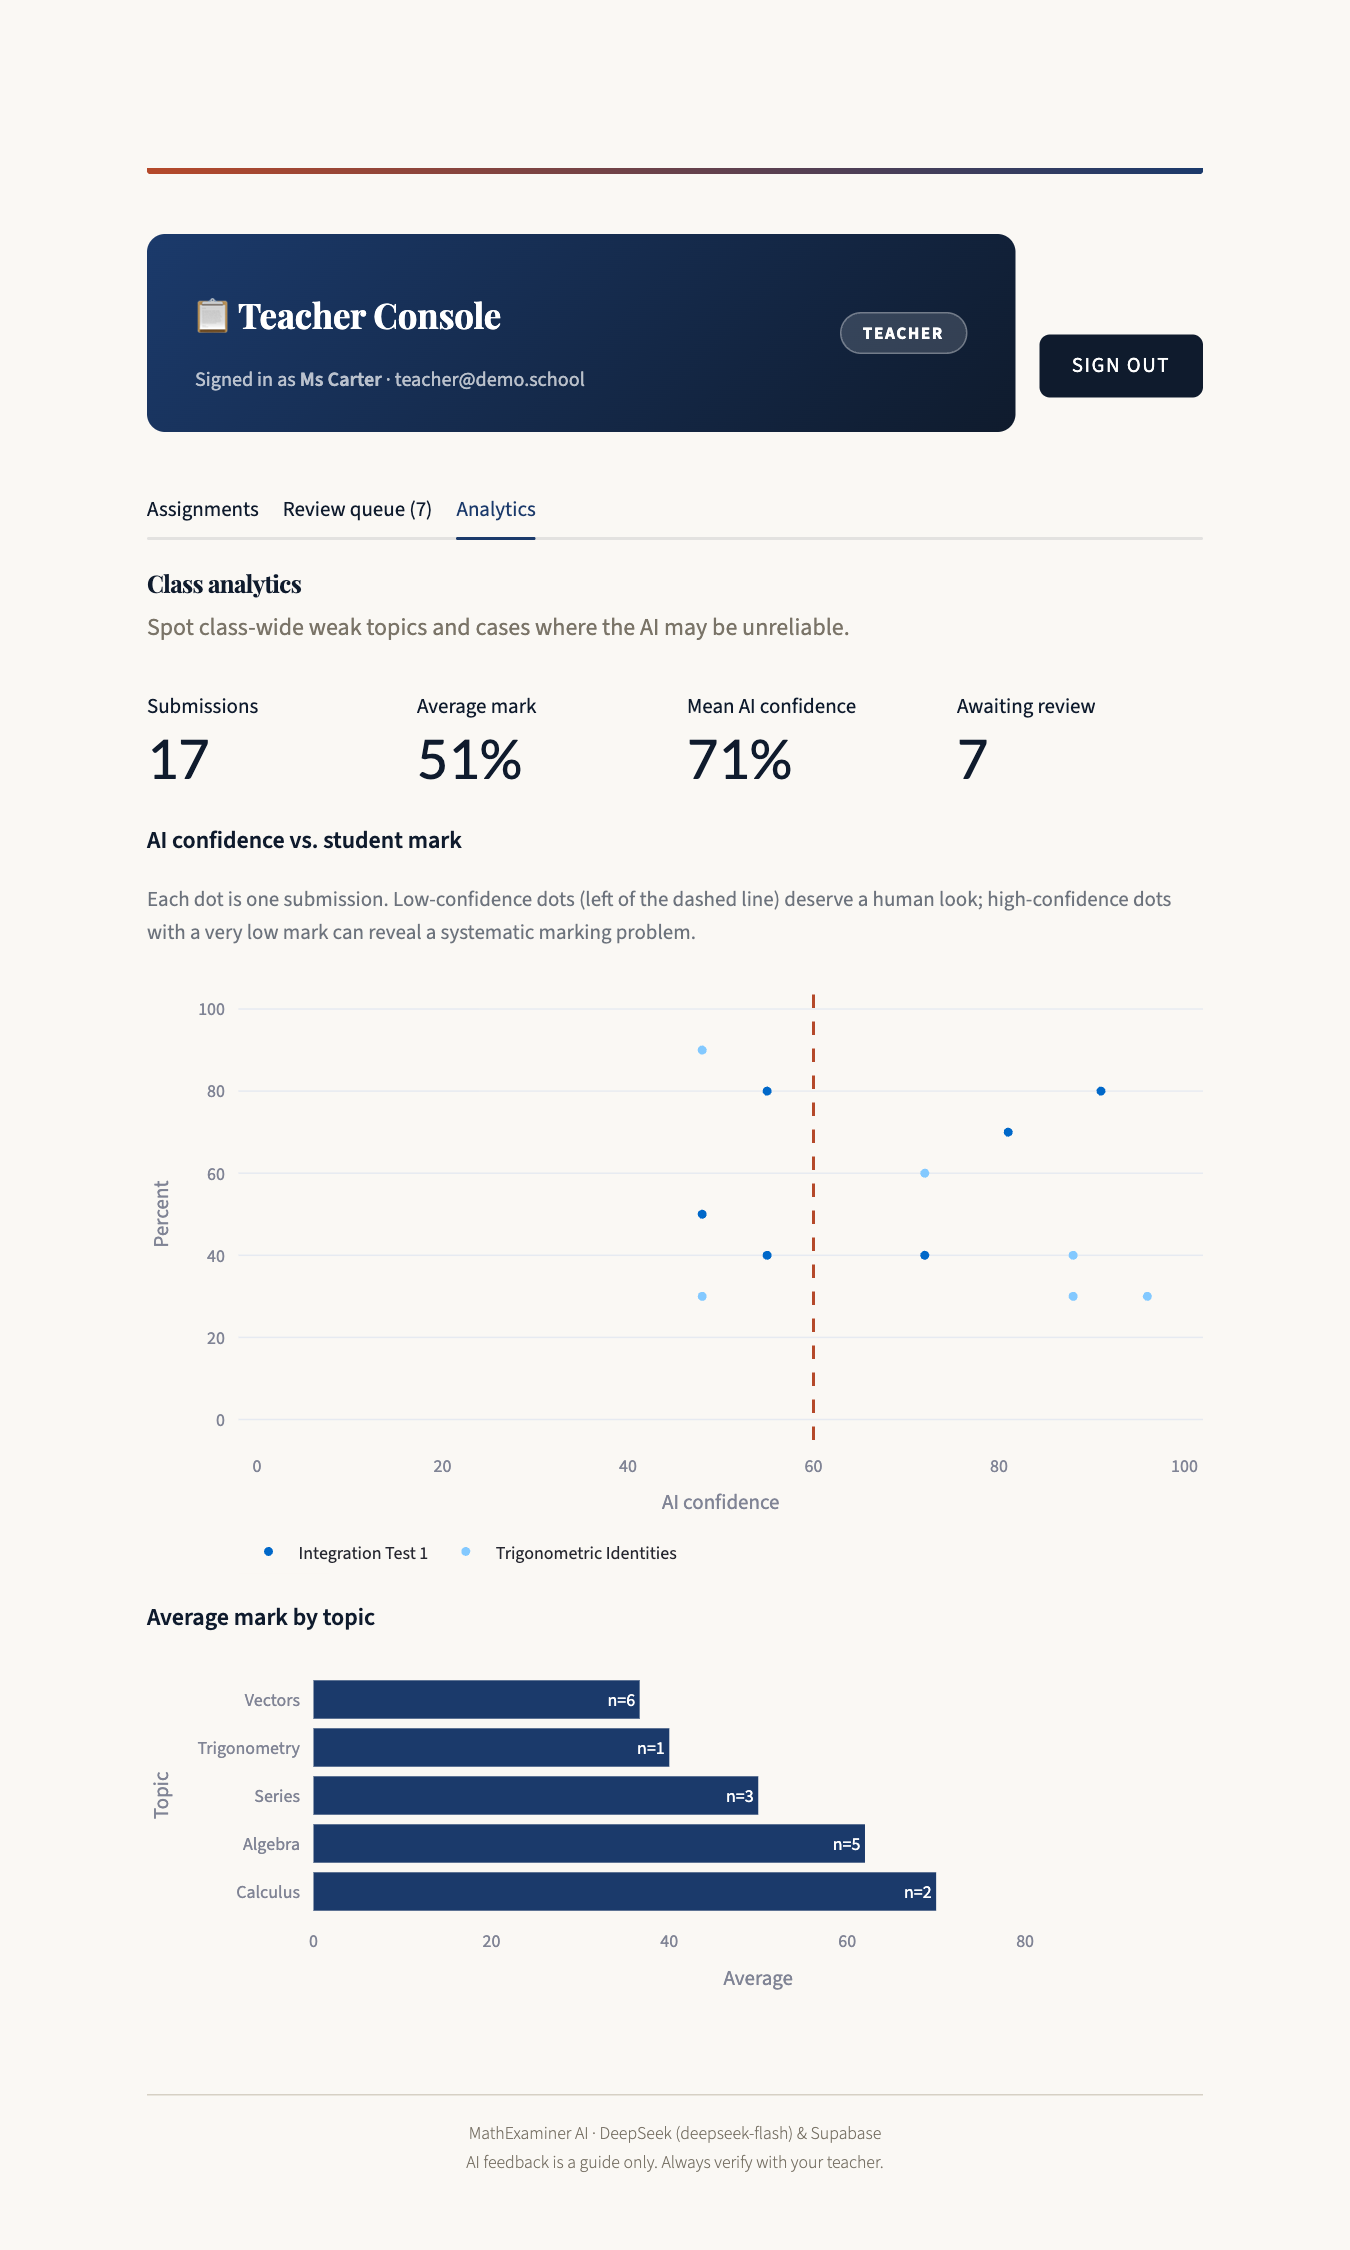
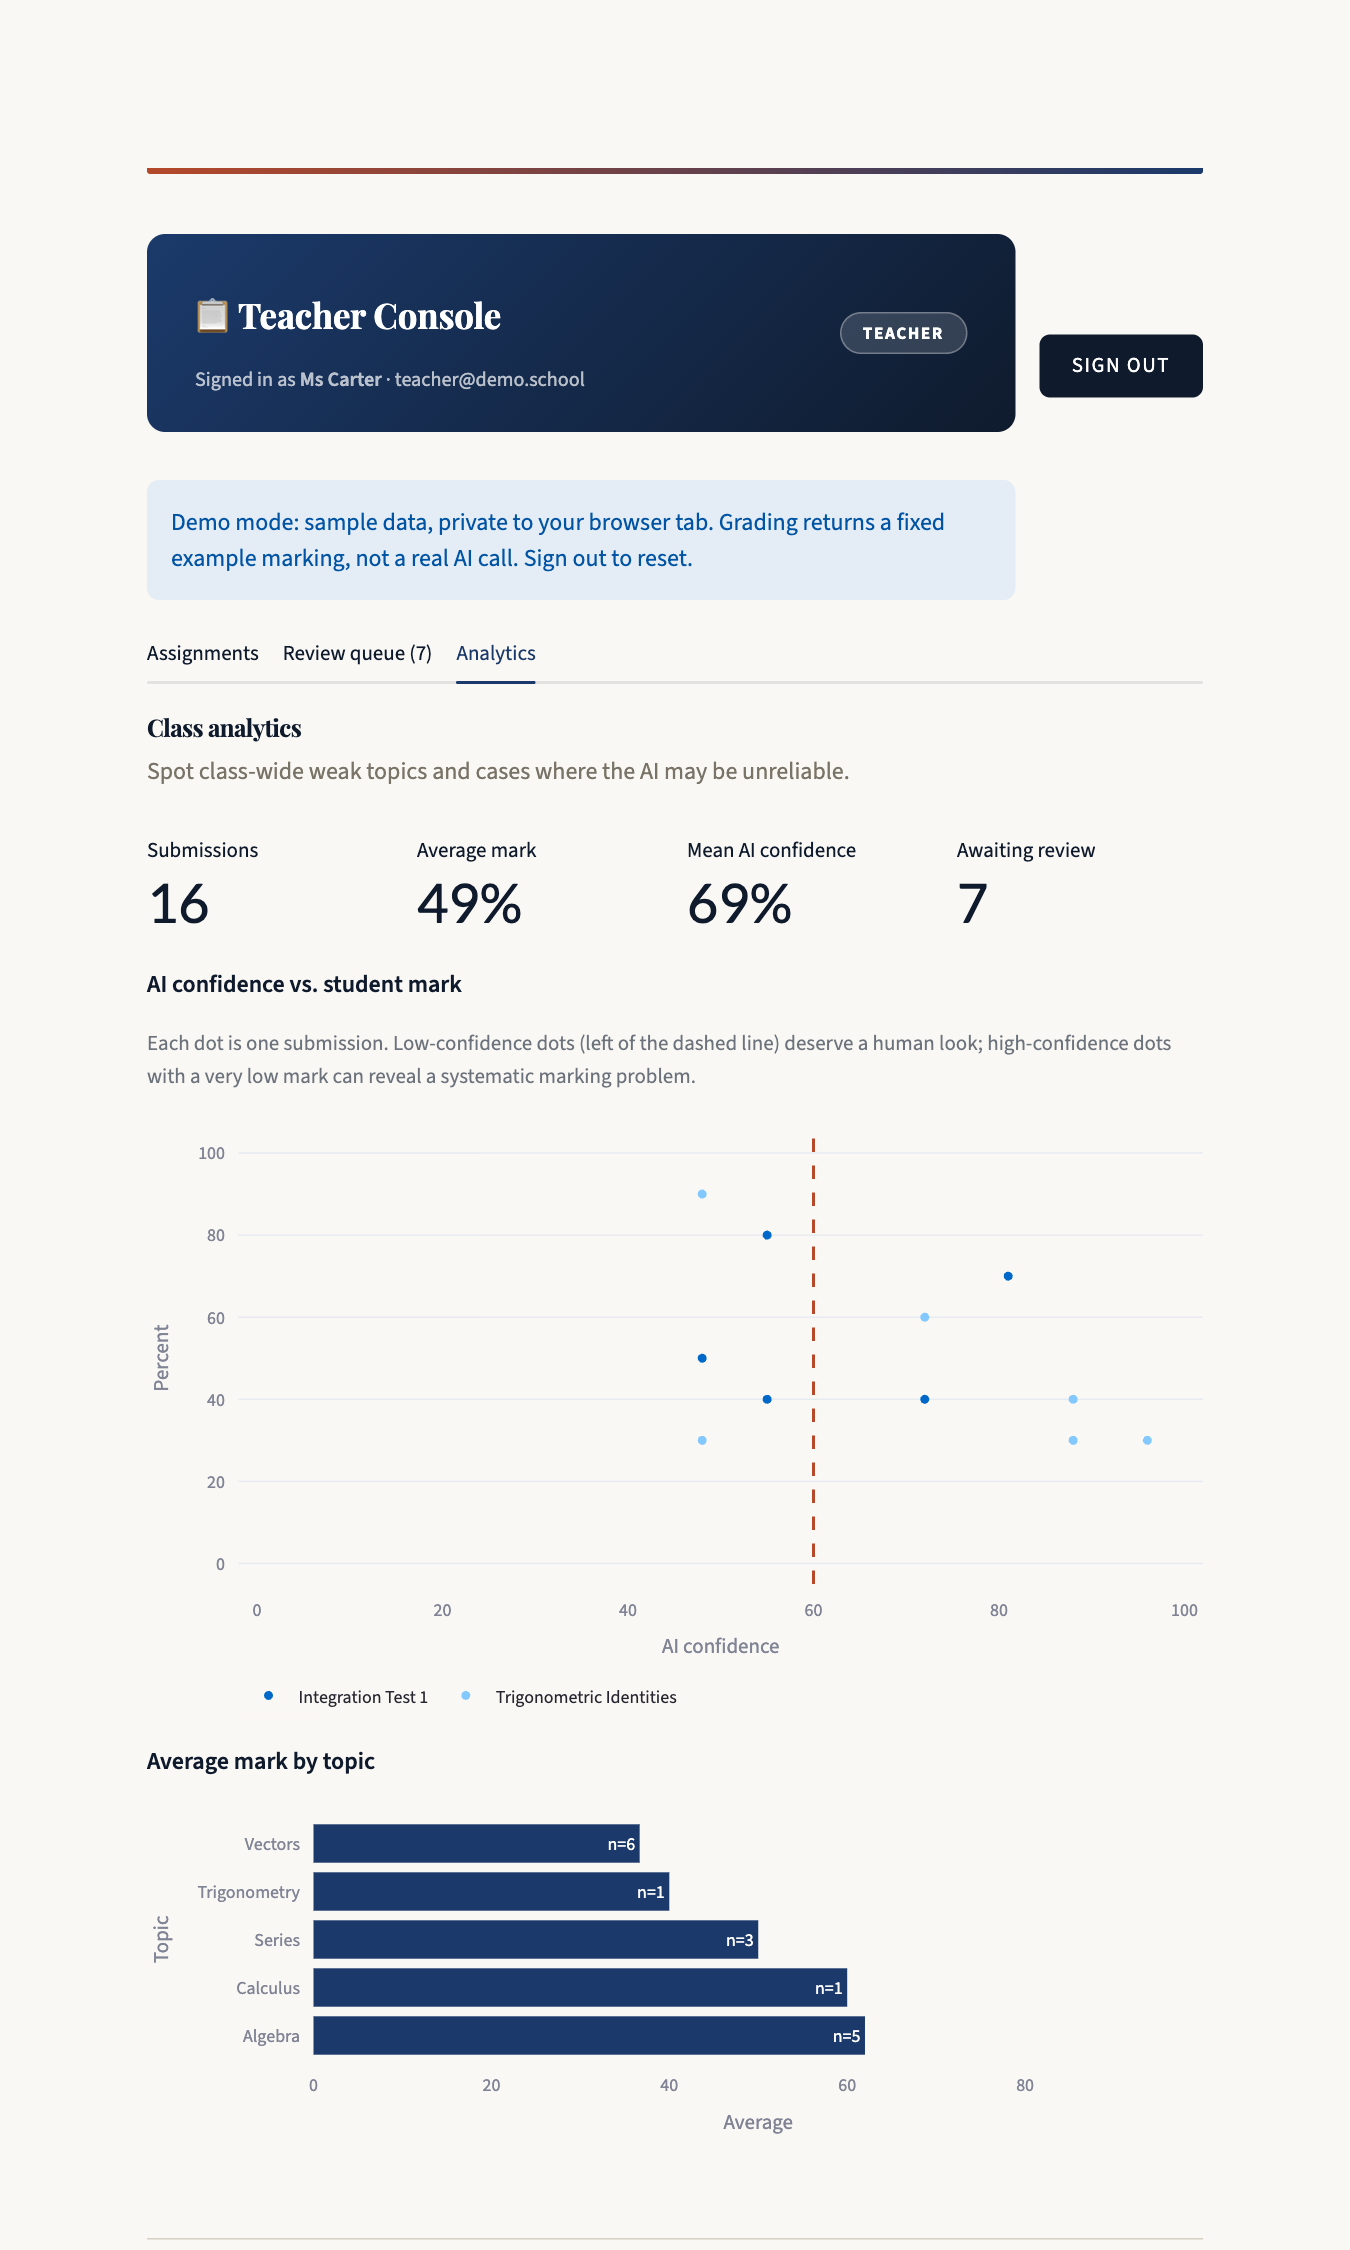
Isolate demo data per browser session and label demo mode
A hosted public demo must not let one visitor's edits (deleted assignments, typed titles)
show up for everyone else. Each session now gets its own in-memory store, reset on sign-out,
and a banner states the grading is a fixed example rather than a real AI call.

diff --git a/demo/fake_backend.py b/demo/fake_backend.py
@@ -15,11 +15,12 @@ from datetime import datetime, timedelta, timezone
 
 import streamlit as st
 from PIL import Image, ImageDraw
+from streamlit.runtime.scriptrunner import get_script_run_ctx
 
 from mathexaminer import db, deepseek
 from mathexaminer.db import DBError, Profile
 from mathexaminer.models import GradingResult
-from mathexaminer.ui import auth_page
+from mathexaminer.ui import auth_page, components
 
 TEACHER = Profile("teacher-1", "teacher@demo.school", "Ms Carter", "teacher")
 STUDENTS = {
@@ -93,7 +94,29 @@ class _Store:
         }
 
 
-STORE = _Store()
+STORE = _Store()  # used outside a Streamlit session, e.g. by tests calling these functions directly
+
+
+def _store() -> _Store:
+    """Each browser session gets its own copy, so visitors to a public demo never see each other's changes."""
+    if get_script_run_ctx() is None:
+        return STORE
+    if "demo_store" not in st.session_state:
+        st.session_state.demo_store = _Store()
+    return st.session_state.demo_store
+
+
+DEMO_NOTE = (
+    "Demo mode: sample data, private to your browser tab. Grading returns a fixed example marking, "
+    "not a real AI call. Sign out to reset."
+)
+_real_welcome_banner = components.welcome_banner
+
+
+def _welcome_banner_with_note(name, email, role):
+    _real_welcome_banner(name, email, role)
+    st.info(DEMO_NOTE)
+
 _real_auth_render = auth_page.render
 
 
@@ -151,95 +174,95 @@ def sign_out(client):
 
 
 def download(client, bucket, path):
-    return STORE.files[path]
+    return _store().files[path]
 
 
 def create_assignment(client, teacher_id, title, filename, data, mime):
     path = f"{teacher_id}/{uuid.uuid4()}.bin"
-    STORE.files[path] = data
-    STORE.assignments.insert(
+    _store().files[path] = data
+    _store().assignments.insert(
         0, {"id": str(uuid.uuid4()), "teacher_id": teacher_id, "title": title, "status": "active",
             "mark_scheme_path": path, "created_at": _iso(_now())}
     )
 
 
 def list_teacher_assignments(client, teacher_id):
-    return [dict(a) for a in STORE.assignments if a["teacher_id"] == teacher_id]
+    return [dict(a) for a in _store().assignments if a["teacher_id"] == teacher_id]
 
 
 def set_assignment_status(client, assignment_id, status):
-    for a in STORE.assignments:
+    for a in _store().assignments:
         if a["id"] == assignment_id:
             a["status"] = status
 
 
 def replace_mark_scheme(client, teacher_id, assignment_id, old_path, filename, data, mime):
     path = f"{teacher_id}/{uuid.uuid4()}.bin"
-    STORE.files[path] = data
-    for a in STORE.assignments:
+    _store().files[path] = data
+    for a in _store().assignments:
         if a["id"] == assignment_id:
             a["mark_scheme_path"] = path
 
 
 def delete_assignment(client, assignment_id, mark_scheme_path):
-    STORE.assignments = [a for a in STORE.assignments if a["id"] != assignment_id]
-    STORE.submissions = [s for s in STORE.submissions if s["assignment_id"] != assignment_id]
+    _store().assignments = [a for a in _store().assignments if a["id"] != assignment_id]
+    _store().submissions = [s for s in _store().submissions if s["assignment_id"] != assignment_id]
 
 
 def list_teacher_submissions(client, assignment_ids):
-    return [dict(s) for s in STORE.submissions if s["assignment_id"] in assignment_ids]
+    return [dict(s) for s in _store().submissions if s["assignment_id"] in assignment_ids]
 
 
 def resolve_submission(client, submission_id, score, comment):
-    for s in STORE.submissions:
+    for s in _store().submissions:
         if s["id"] == submission_id:
             s.update(teacher_score_awarded=score, teacher_comment=comment.strip() or None,
                      resolved_at=_iso(_now()), resolved_by=TEACHER.user_id)
 
 
 def list_open_assignments(client):
-    return [dict(a) for a in STORE.assignments if a["status"] == "active"]
+    return [dict(a) for a in _store().assignments if a["status"] == "active"]
 
 
 def count_gradings_today(client, student_id):
     since = _iso(_now() - timedelta(days=1))
-    return sum(1 for s in STORE.submissions if s["student_id"] == student_id and s["created_at"] >= since)
+    return sum(1 for s in _store().submissions if s["student_id"] == student_id and s["created_at"] >= since)
 
 
 def upload_student_work(client, student_id, files):
     paths = []
     for _name, data, _mime in files:
         path = f"{student_id}/{uuid.uuid4()}.jpg"
-        STORE.files[path] = data
+        _store().files[path] = data
         paths.append(path)
     return paths
 
 
 def save_submission(client, assignment_id, student_id, paths, result):
-    assignment = next(a for a in STORE.assignments if a["id"] == assignment_id)
+    assignment = next(a for a in _store().assignments if a["id"] == assignment_id)
     student = STUDENTS[student_id]
-    row = STORE._row(assignment, student, result.score_awarded, result.score_total, result.confidence,
+    row = _store()._row(assignment, student, result.score_awarded, result.score_total, result.confidence,
                      result.topic, False, "student", "", _now())
     row.update(student_work_paths=paths, ai_feedback=result.to_markdown(), key_takeaway=result.key_takeaway)
-    STORE.submissions.insert(0, row)
+    _store().submissions.insert(0, row)
     return row["id"]
 
 
 def flag_submission(client, submission_id, reason):
-    for s in STORE.submissions:
+    for s in _store().submissions:
         if s["id"] == submission_id:
             s.update(flagged_for_review=True, flag_source="student",
                      flag_reason=reason.strip() or "Student requested manual review.", flagged_at=_iso(_now()))
 
 
 def auto_flag_submission(client, submission_id, reason):
-    for s in STORE.submissions:
+    for s in _store().submissions:
         if s["id"] == submission_id and not s["flagged_for_review"]:
             s.update(flagged_for_review=True, flag_source="ai", flag_reason=reason, flagged_at=_iso(_now()))
 
 
 def list_student_submissions(client, student_id):
-    return [dict(s) for s in STORE.submissions if s["student_id"] == student_id]
+    return [dict(s) for s in _store().submissions if s["student_id"] == student_id]
 
 
 DB_FUNCTIONS = (
@@ -257,3 +280,4 @@ def install() -> None:
         setattr(db, name, module[name])
     deepseek.grade = fake_grade
     auth_page.render = _auth_render_with_hint
+    components.welcome_banner = _welcome_banner_with_note

diff --git a/tests/test_app.py b/tests/test_app.py
@@ -12,7 +12,7 @@ ROOT = Path(__file__).resolve().parent.parent
 sys.path[:0] = [str(ROOT), str(ROOT / "demo")]
 
 from mathexaminer import db, deepseek  # noqa: E402
-from mathexaminer.ui import auth_page  # noqa: E402
+from mathexaminer.ui import auth_page, components  # noqa: E402
 
 APP = str(ROOT / "app.py")
 DEMO = str(ROOT / "demo" / "demo_app.py")
@@ -21,7 +21,7 @@ DEMO = str(ROOT / "demo" / "demo_app.py")
 @pytest.fixture
 def backend():
     saved = {n: getattr(db, n) for n in dir(db) if callable(getattr(db, n))}
-    saved_grade, saved_render = deepseek.grade, auth_page.render
+    saved_grade, saved_render, saved_banner = deepseek.grade, auth_page.render, components.welcome_banner
     import fake_backend
 
     fake_backend = importlib.reload(fake_backend)
@@ -29,11 +29,12 @@ def backend():
     yield fake_backend
     for name, fn in saved.items():
         setattr(db, name, fn)
-    deepseek.grade, auth_page.render = saved_grade, saved_render
+    deepseek.grade, auth_page.render, components.welcome_banner = saved_grade, saved_render, saved_banner
 
 
 def demo_app(backend, profile=None, **state):
     at = AppTest.from_file(DEMO, default_timeout=30)
+    at.session_state["demo_store"] = backend.STORE  # share the test's store with the app session
     if profile is not None:
         at.session_state["profile"] = profile
     for key, value in state.items():
@@ -155,3 +156,14 @@ def test_user_supplied_titles_cannot_inject_html(backend):
         at = demo_app(backend, profile)
         assert not at.exception
         assert "<img src=x" not in all_markdown(at)
+
+
+def test_demo_sessions_are_isolated_and_labelled(backend):
+    at = demo_app(backend, backend.STUDENTS["student-1"])
+    assert not at.exception
+    assert any(backend.DEMO_NOTE in i.value for i in at.info)
+    fresh = AppTest.from_file(DEMO, default_timeout=30)  # a second visitor, no shared store
+    fresh.session_state["profile"] = backend.TEACHER
+    fresh.run()
+    assert not fresh.exception
+    assert fresh.session_state["demo_store"] is not backend.STORE
